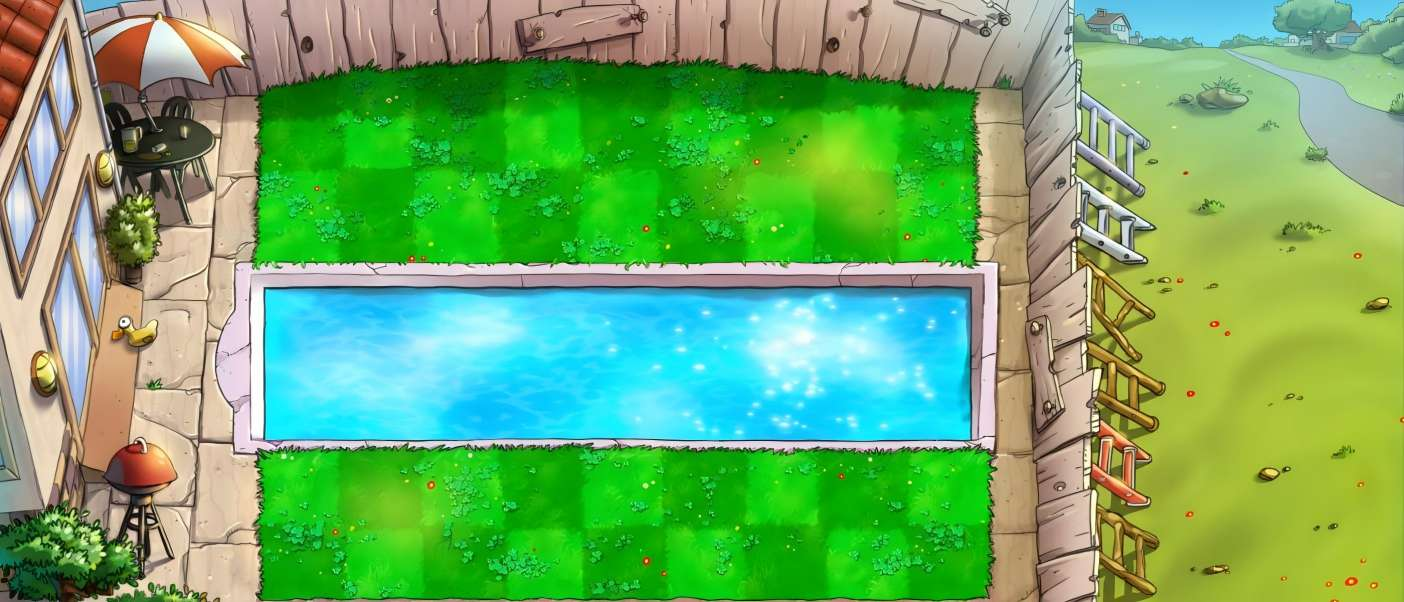
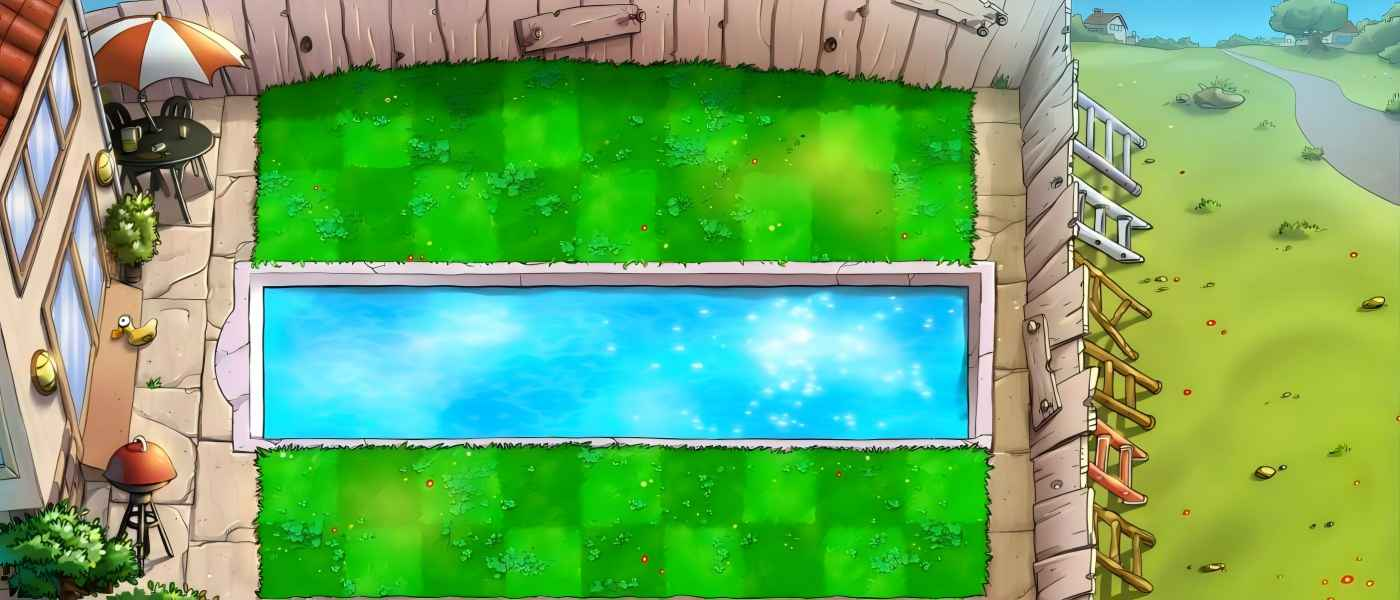
建立了lilypad类,完善了一些泳池地图的设定,如摆放位置等

diff --git a/plants-vs-zombies/swimmingpoolscene.cpp b/plants-vs-zombies/swimmingpoolscene.cpp
@@ -1,19 +1,23 @@
 #include "swimmingpoolscene.h"
+#include "bucketzombie.h"
+#include "button.h"
+#include "classicmower.h"
+#include "conezombie.h"
+#include "exitbutton.h"
+#include "footballzombie.h"
 #include "loginscene.h"
 #include "qdatetime.h"
 #include "qsoundeffect.h"
 #include "qtimer.h"
+#include "screenzombie.h"
 #include "swimmingpoolmap.h"
-#include "ui_swimmingpoolscene.h"
 #include <QPushButton>
 
 
 swimmingpoolscene::swimmingpoolscene(QWidget *parent)
     : QWidget(parent)
-    , ui(new Ui::swimmingpoolscene)
 {
-    ui->setupUi(this);
-
+    this->setFixedSize(902,602);
     //生成随机数
     srand(uint(QTime(0,0,0).secsTo(QTime::currentTime())));
 
@@ -46,21 +50,17 @@ swimmingpoolscene::swimmingpoolscene(QWidget *parent)
 
     //设置按钮
     Button *button = new Button(sound, timer);//参数为sound和timer,实现按下暂停，音乐停止，计时器停止，从而实现画面静止
-    button->setPos(950, 20);
+    button->setPos(970, 20);
     scene->addItem(button);
 
     // 创建按钮返回主页面
-    // QPushButton* exit = new QPushButton(this);
-    // exit->setText("返回主页面");
-    // connect(exit, &QPushButton::clicked, this, &swimmingpoolscene::on_exit_clicked);
-    // exit->setStyleSheet("border-image: url(:/pvz.res/Button.png);");
-    // exit->setStyleSheet("font-family: \"Calibri\"; font-weight: 700; font-size: 18pt;");
-    // exit->setFixedSize(160, 40);
-    // QGraphicsProxyWidget *proxy = scene->addWidget(exit);
-    // proxy->setPos(800, 40);
+    exitbutton *exit=new exitbutton(sound, timer,this);
+    exit->setPos(970,60);
+    scene->addItem(exit);
+
     //设置场景
     swimmingpoolmap *map = new swimmingpoolmap;
-    map->setPos(990, 602);
+    map->setPos(618, 326);
     scene->addItem(map);
 
     //用循环语句，设置6个小推车
@@ -76,7 +76,7 @@ swimmingpoolscene::swimmingpoolscene(QWidget *parent)
     //创建
     view = new QGraphicsView(scene, this);
     //设置大小
-    view->resize(990, 602);
+    view->resize(902, 602);
     //反走样功能，调用反锯齿功能，优化图像
     view->setRenderHint(QPainter::Antialiasing);
     //设置背景图
@@ -85,10 +85,10 @@ swimmingpoolscene::swimmingpoolscene(QWidget *parent)
     view->setCacheMode(QGraphicsView::CacheBackground);
     //设置自动刷新模式
     view->setViewportUpdateMode(QGraphicsView::BoundingRectViewportUpdate);
+
     connect(timer, &QTimer::timeout, scene, &QGraphicsScene::advance);
     connect(timer, &QTimer::timeout, this, &swimmingpoolscene::addZombie);
     connect(timer, &QTimer::timeout, this, &swimmingpoolscene::check);
-
 
     //启动定时器
     timer->start(33);
@@ -97,21 +97,12 @@ swimmingpoolscene::swimmingpoolscene(QWidget *parent)
 
 swimmingpoolscene::~swimmingpoolscene()
 {
-    delete ui;
     delete sound;
     delete timer;
     delete scene;
     delete view;
 }
-void swimmingpoolscene::on_exit_clicked(){
 
-    this->hide();
-    loginscene w;
-    w.setFixedSize(900, 600);
-    w.setWindowTitle("植物大战僵尸");
-    w.show();
-
-}
 //绘制僵尸
 void swimmingpoolscene::addZombie()
 {
@@ -145,7 +136,7 @@ void swimmingpoolscene::addZombie()
             zombie = new ScreenZombie;
         else
             zombie = new FootballZombie;
-        zombie->setPos(1028, 130 + 98 * i);
+        zombie->setPos(1028, 135 + 82 * i);
         scene->addItem(zombie);
     }
 }

diff --git a/plants-vs-zombies/exitbutton.cpp b/plants-vs-zombies/exitbutton.cpp
@@ -1,0 +1,41 @@
+#include "exitbutton.h"
+#include "loginscene.h"
+
+exitbutton::exitbutton(QSoundEffect *s, QTimer *t,QWidget *w)
+{
+    sound = s;
+    timer = t;
+    widget = w;
+}
+
+QRectF exitbutton::boundingRect() const
+{
+    return QRectF(-80, -20, 160, 40);
+}
+
+void exitbutton::paint(QPainter *painter, const QStyleOptionGraphicsItem *option, QWidget *widget)
+{
+    Q_UNUSED(option)
+    Q_UNUSED(widget)
+    painter->drawPixmap(QRect(-80, -20, 160, 40), QPixmap(":/pvz.res/Button.png"));
+    painter->setPen(Qt::green);
+    QFont font("Calibri", 16, QFont::Bold, true);
+    painter->setFont(font);
+    painter->drawText(boundingRect(), Qt::AlignCenter, "返回登陆页面");
+}
+
+void exitbutton::mousePressEvent(QGraphicsSceneMouseEvent *event)
+{
+    if (event->button() == Qt::LeftButton)
+    {
+        loginscene*scene=new loginscene;
+        scene->setFixedSize(900, 600);
+        scene->setWindowTitle("植物大战僵尸");
+        widget->hide();
+        scene->show();
+
+        delete sound;
+        delete timer;
+    }
+    update();
+}

diff --git a/plants-vs-zombies/swimmingpoolscene.h b/plants-vs-zombies/swimmingpoolscene.h
@@ -1,29 +1,11 @@
 #ifndef SWIMMINGPOOLSCENE_H
 #define SWIMMINGPOOLSCENE_H
 
-#include <QMainWindow>
-#include <QGraphicsScene>
-#include <QGraphicsView>
+#include "qgraphicsscene.h"
+#include "qmediaplayer.h"
+#include "qsoundeffect.h"
+#include "qwidget.h"
 
-#include <QTimer>
-
-#include "classicshop.h"
-#include "classcard.h"
-#include "shovel.h"
-#include "button.h"
-
-#include "classicmower.h"
-#include "basiczombie.h"
-#include "conezombie.h"
-#include "bucketzombie.h"
-#include "screenzombie.h"
-#include "footballzombie.h"
-#include <QMediaPlayer>
-
-
-namespace Ui {
-class swimmingpoolscene;
-}
 
 class swimmingpoolscene : public QWidget
 {
@@ -39,11 +21,11 @@ public:
     QAudioOutput *audioOutput = nullptr;
 
 private:
-    Ui::swimmingpoolscene *ui;
     QSoundEffect *sound;
     QTimer *timer;
     QGraphicsScene *scene;
     QGraphicsView *view;
 };
+
 
 #endif // SWIMMINGPOOLSCENE_H

diff --git a/plants-vs-zombies/classicscene.cpp b/plants-vs-zombies/classicscene.cpp
@@ -8,6 +8,7 @@
 #include<QPainter>
 #include<classicscene.h>
 #include"classicmap.h"
+#include "exitbutton.h"
 
 
 //主页面创建
@@ -49,6 +50,11 @@ classicscene::classicscene(QWidget *parent) : QMainWindow(parent)
     button->setPos(970, 20);
     scene->addItem(button);
 
+    // 创建按钮返回主页面
+    exitbutton *exit=new exitbutton(sound, timer,this);
+    exit->setPos(970,60);
+    scene->addItem(exit);
+
     //设置场景
     classicMap *map = new classicMap;
     map->setPos(618, 326);
@@ -63,7 +69,6 @@ classicscene::classicscene(QWidget *parent) : QMainWindow(parent)
     }
 
     //QGraphicsView提供的View组件，用于可视化场景中的内容
-
     //创建
     view = new QGraphicsView(scene, this);
     //设置大小

diff --git a/plants-vs-zombies/exitbutton.h b/plants-vs-zombies/exitbutton.h
@@ -1,0 +1,22 @@
+#ifndef EXITBUTTON_H
+#define EXITBUTTON_H
+
+#include <QTimer>
+#include <QSoundEffect>
+#include "other.h"
+
+class exitbutton : public Other
+{
+public:
+    exitbutton(QSoundEffect *s, QTimer *t, QWidget *w);
+    QRectF boundingRect() const override;
+    void paint(QPainter *painter, const QStyleOptionGraphicsItem *option, QWidget *widget) override;
+    void mousePressEvent(QGraphicsSceneMouseEvent *event) override;
+
+private:
+    QSoundEffect *sound;
+    QTimer *timer;
+    QWidget *widget;
+};
+
+#endif // EXITBUTTON_H

diff --git a/plants-vs-zombies/swimmingpoolmap.cpp b/plants-vs-zombies/swimmingpoolmap.cpp
@@ -43,8 +43,9 @@ void swimmingpoolmap::dropEvent(QGraphicsSceneDragDropEvent *event)
         //确定位置
         QString s = event->mimeData()->text();
         QPointF pos = mapToScene(event->pos());
-        pos.setX((int(pos.x()) - 249) / 82 * 82 + 290);
-        pos.setY((int(pos.y()) - 81) / 98 * 98 + 130);
+        pos.setX((int(pos.x()) - 249) / 82 * 82 + 295);
+        pos.setY((int(pos.y()) - 81) / 82 * 82 + 135);
+
         //铲除植物
         if (s == "Shovel")
         {

diff --git a/plants-vs-zombies/lilypad.cpp b/plants-vs-zombies/lilypad.cpp
@@ -1,0 +1,20 @@
+#include "lilypad.h"
+
+string name="";
+string info="";
+
+lilypad::lilypad() {
+    hp = 300;
+    time = int(10.0 * 1000 / 33);
+    setMovie(":/pvz.res/SunFlower.gif");
+    setName(name);
+    setInfo(info);
+}
+void lilypad::advance(int phase) {
+    if (!phase)
+        return;
+    update();
+    if (hp <= 0)
+        delete this;
+
+};

diff --git a/plants-vs-zombies/lilypad.h b/plants-vs-zombies/lilypad.h
@@ -1,0 +1,15 @@
+#ifndef LILYPAD_H
+#define LILYPAD_H
+
+#include "other.h"
+#include "plant.h"
+#include "zombie.h"
+
+class lilypad: public Plant,public Other
+{
+public:
+    lilypad();
+    void advance(int phase) override;
+};
+
+#endif // LILYPAD_H

diff --git a/plants-vs-zombies/swimmingpoolshop.h b/plants-vs-zombies/swimmingpoolshop.h
@@ -1,0 +1,10 @@
+#ifndef SWIMMINGPOOLSHOP_H
+#define SWIMMINGPOOLSHOP_H
+
+class swimmingpoolshop
+{
+public:
+    swimmingpoolshop();
+};
+
+#endif // SWIMMINGPOOLSHOP_H

diff --git a/plants-vs-zombies/swimmingpoolshop.cpp b/plants-vs-zombies/swimmingpoolshop.cpp
@@ -1,0 +1,3 @@
+#include "swimmingpoolshop.h"
+
+swimmingpoolshop::swimmingpoolshop() {}
